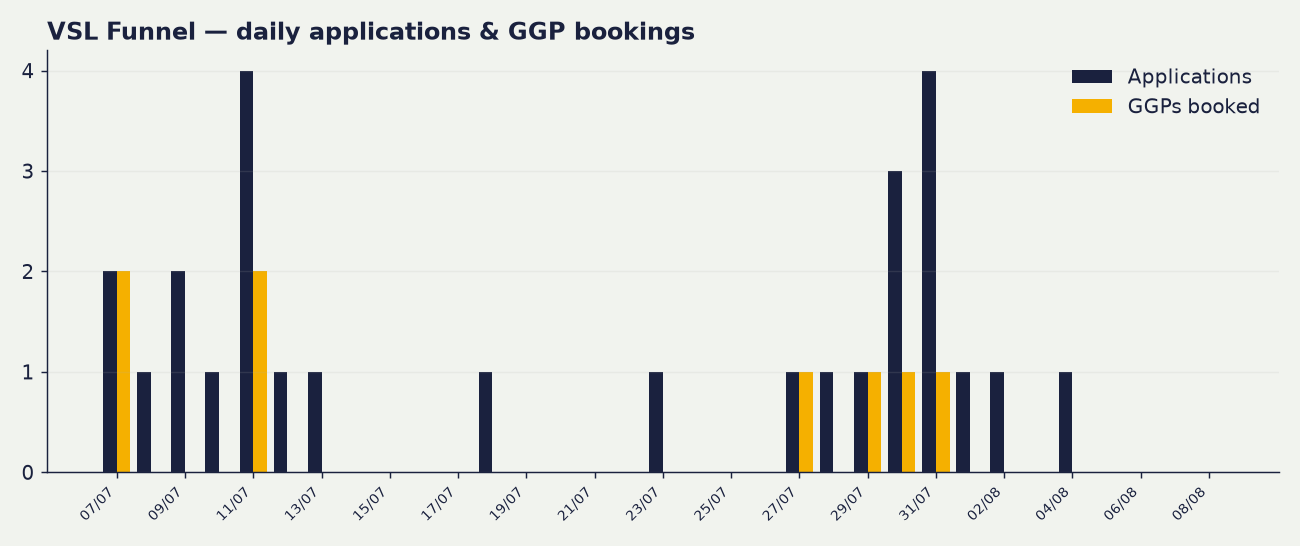
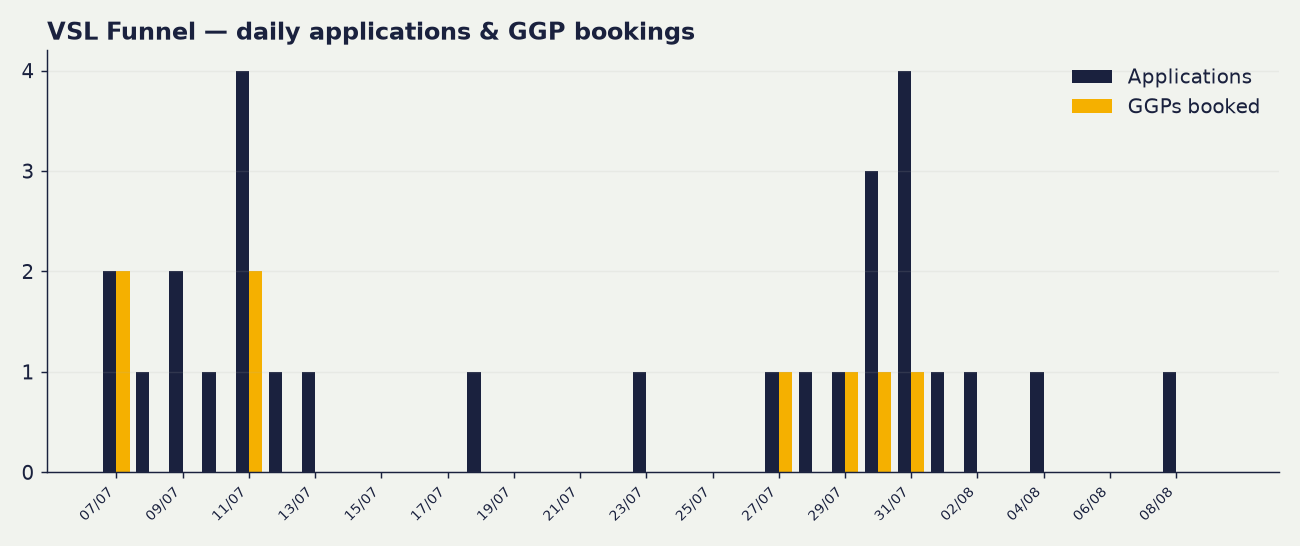
nightly dashboard update 2026-08-09 04:00

diff --git a/content/index.md b/content/index.md
@@ -1,6 +1,6 @@
 # 📈 VSL Funnel Dashboard
 
-_Live from the VSL Applications tracker + Meta. Last updated: 8 Aug 2026, 04:00 BST. Rebuilds nightly._
+_Live from the VSL Applications tracker + Meta. Last updated: 9 Aug 2026, 04:00 BST. Rebuilds nightly._
 
 > Funnel window from 2026-07-07. Attribution = your team's funnel-stage ticks on the Applications tab (the source of truth).
 
@@ -10,9 +10,9 @@ _Live from the VSL Applications tracker + Meta. Last updated: 8 Aug 2026, 04:00 
 
 | Metric | Value |
 |---|---|
-| 💷 Spent | **£1,990.64** |
-| 👀 Opt-ins | **85** |
-| 📝 Applications | **40** |
+| 💷 Spent | **£2,058.63** |
+| 👀 Opt-ins | **86** |
+| 📝 Applications | **41** |
 | 📞 GGPs booked | **10** |
 | ✅ Showed up | **4** |
 | 🤝 Signed | **2** (Tarik, Zeeshan) |
@@ -21,8 +21,8 @@ _Live from the VSL Applications tracker + Meta. Last updated: 8 Aug 2026, 04:00 
 
 | Step | Rate |
 |---|---|
-| Opt-in → Application | 47% |
-| Application → GGP booked | 25% |
+| Opt-in → Application | 48% |
+| Application → GGP booked | 24% |
 | GGP show rate | 40% |
 | Show → Sign | 50% |
 | Application → Sign | 5% |
@@ -32,14 +32,14 @@ _Live from the VSL Applications tracker + Meta. Last updated: 8 Aug 2026, 04:00 
 | Cost | Value |
 |---|---|
 | Cost per application | £50 |
-| Cost per GGP booked | £199 |
-| Cost per show-up | £498 |
-| **Cost per acquisition (CPA)** | **£995** |
+| Cost per GGP booked | £206 |
+| Cost per show-up | £515 |
+| **Cost per acquisition (CPA)** | **£1,029** |
 
 ## Ad spend split
 
-- 🔥 Warm: £1,040.15
-- ❄ Cold: £950.49
+- 🔥 Warm: £1,088.03
+- ❄ Cold: £970.60
 
 ---
 
@@ -57,4 +57,4 @@ _Live from the VSL Applications tracker + Meta. Last updated: 8 Aug 2026, 04:00 
 > _Applications + GGP-booked are TRUE daily series (from submission timestamps). Opt-ins have no per-day source in the Opt-ins tab, so opt-ins appear as a total only, not a daily line._
 
 ---
-<!-- Auto-generated by the VSL dashboard nightly pipeline. Do not edit by hand. 8 Aug 2026, 04:00 BST -->
+<!-- Auto-generated by the VSL dashboard nightly pipeline. Do not edit by hand. 9 Aug 2026, 04:00 BST -->
